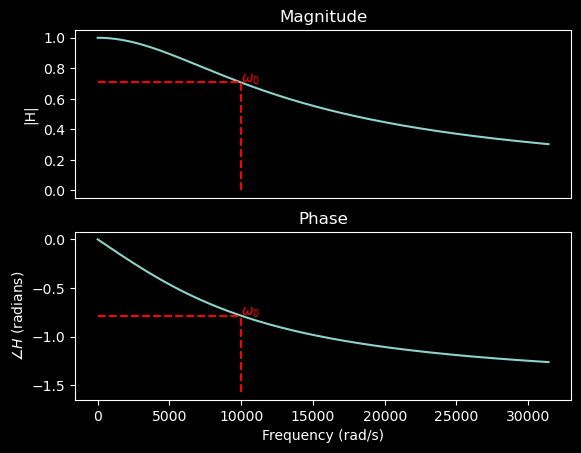
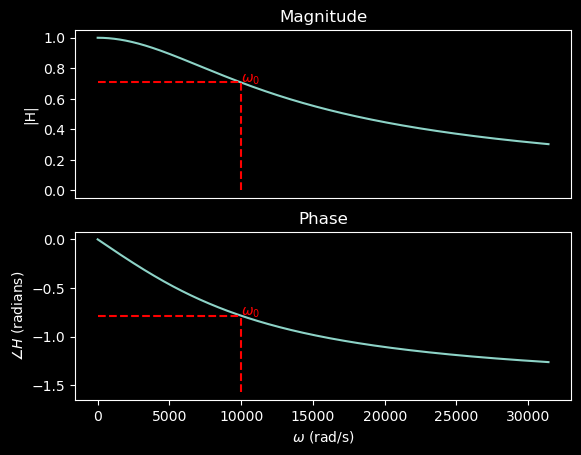
Built site for gh-pages

diff --git a/notebooks/rc_lpf.html b/notebooks/rc_lpf.html
@@ -413,7 +413,7 @@ pre > code.sourceCode > span > a:first-child::before { text-decoration: underlin
 
 
 
-<div id="b128e72e" class="cell" data-execution_count="7">
+<div id="b128e72e" class="cell" data-execution_count="1">
 <div class="sourceCode cell-code" id="cb1"><pre class="sourceCode python code-with-copy"><code class="sourceCode python"><span id="cb1-1"><a href="#cb1-1" aria-hidden="true" tabindex="-1"></a><span class="co"># Low-pass filter transfer function</span></span>
 <span id="cb1-2"><a href="#cb1-2" aria-hidden="true" tabindex="-1"></a></span>
 <span id="cb1-3"><a href="#cb1-3" aria-hidden="true" tabindex="-1"></a><span class="im">import</span> numpy <span class="im">as</span> np</span>
@@ -446,7 +446,7 @@ pre > code.sourceCode > span > a:first-child::before { text-decoration: underlin
 <span id="cb1-30"><a href="#cb1-30" aria-hidden="true" tabindex="-1"></a>plt.plot(w, np.angle(H))</span>
 <span id="cb1-31"><a href="#cb1-31" aria-hidden="true" tabindex="-1"></a>plt.title(<span class="st">'Phase'</span>)</span>
 <span id="cb1-32"><a href="#cb1-32" aria-hidden="true" tabindex="-1"></a>plt.ylabel(<span class="vs">r'</span><span class="dv">$</span><span class="ch">\a</span><span class="vs">ngle H</span><span class="dv">$</span><span class="vs"> </span><span class="kw">(</span><span class="vs">radians</span><span class="kw">)</span><span class="vs">'</span>)</span>
-<span id="cb1-33"><a href="#cb1-33" aria-hidden="true" tabindex="-1"></a>plt.xlabel(<span class="st">'Frequency (rad/s)'</span>)</span>
+<span id="cb1-33"><a href="#cb1-33" aria-hidden="true" tabindex="-1"></a>plt.xlabel(<span class="vs">r'</span><span class="dv">$</span><span class="er">\</span><span class="vs">omega</span><span class="dv">$</span><span class="vs"> </span><span class="kw">(</span><span class="vs">rad/s</span><span class="kw">)</span><span class="vs">'</span>)</span>
 <span id="cb1-34"><a href="#cb1-34" aria-hidden="true" tabindex="-1"></a></span>
 <span id="cb1-35"><a href="#cb1-35" aria-hidden="true" tabindex="-1"></a><span class="co"># \omega_O is at the -45 degree point (-pi/4)</span></span>
 <span id="cb1-36"><a href="#cb1-36" aria-hidden="true" tabindex="-1"></a>plt.plot([w_o, w_o], [<span class="op">-</span>np.pi<span class="op">/</span><span class="dv">2</span>, <span class="op">-</span>np.pi<span class="op">/</span><span class="dv">4</span>], color<span class="op">=</span><span class="st">'red'</span>, linestyle<span class="op">=</span><span class="st">'--'</span>) </span>

diff --git a/slides/filters-slides.html b/slides/filters-slides.html
@@ -321,7 +321,7 @@ V_o = V_i \frac{\frac{1}{j\omega C}}{R + \frac{1}{j \omega C}} \\
 </div>
 </div>
 <ul>
-<li>At <span class="math inline">\(\omega_o\)</span>, <span class="math inline">\(\angle \bar{H}(j\omega_o) = -\tan^{-1}(1) = -45^\circ\)</span> = -.</li>
+<li>At <span class="math inline">\(\omega_o\)</span>, <span class="math inline">\(\angle \bar{H}(j\omega_o) = -\tan^{-1}(1) = -45^\circ = -\frac{\pi}{4}\)</span>.</li>
 </ul>
 
 

diff --git a/slides/filters-notes.html b/slides/filters-notes.html
@@ -650,7 +650,7 @@ Important
 </div>
 </div>
 <ul>
-<li>At <span class="math inline">\(\omega_o\)</span>, <span class="math inline">\(\angle \bar{H}(j\omega_o) = -\tan^{-1}(1) = -45^\circ\)</span> = -.</li>
+<li>At <span class="math inline">\(\omega_o\)</span>, <span class="math inline">\(\angle \bar{H}(j\omega_o) = -\tan^{-1}(1) = -45^\circ = -\frac{\pi}{4}\)</span>.</li>
 </ul>
 
 
